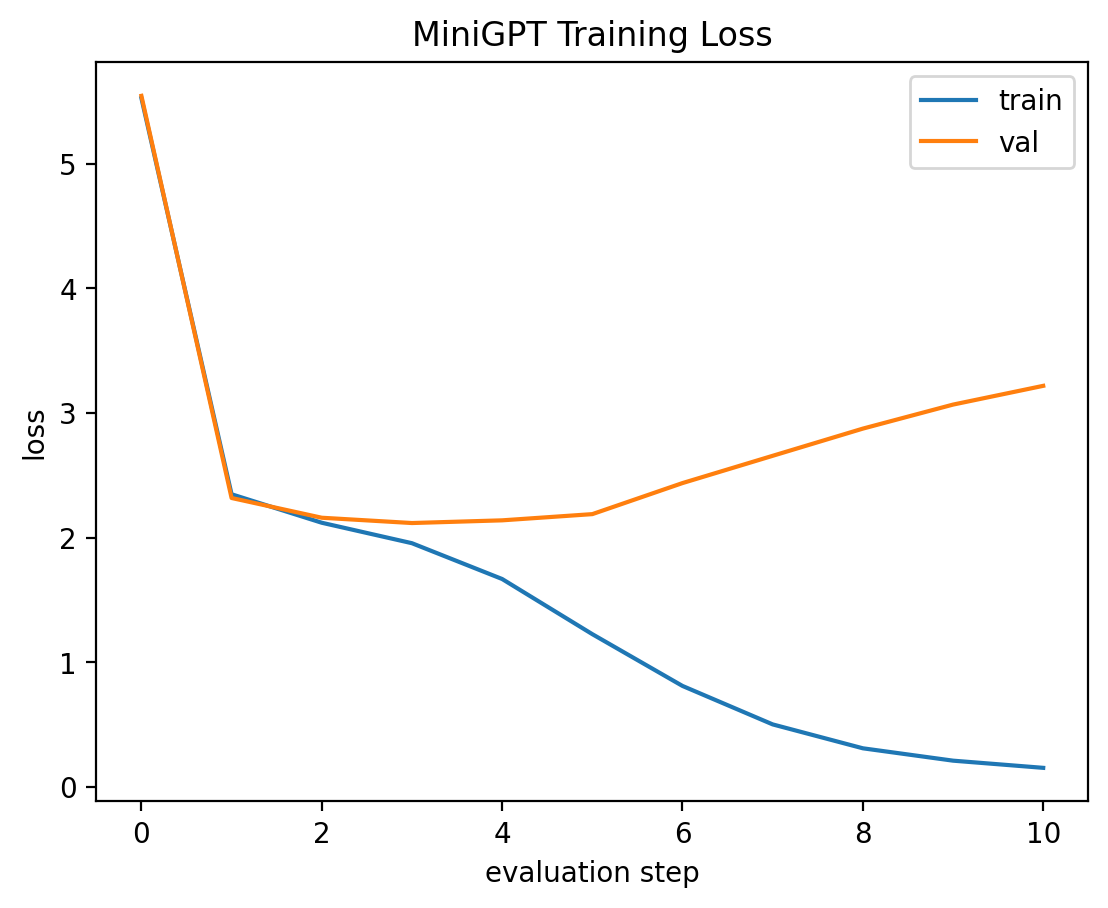
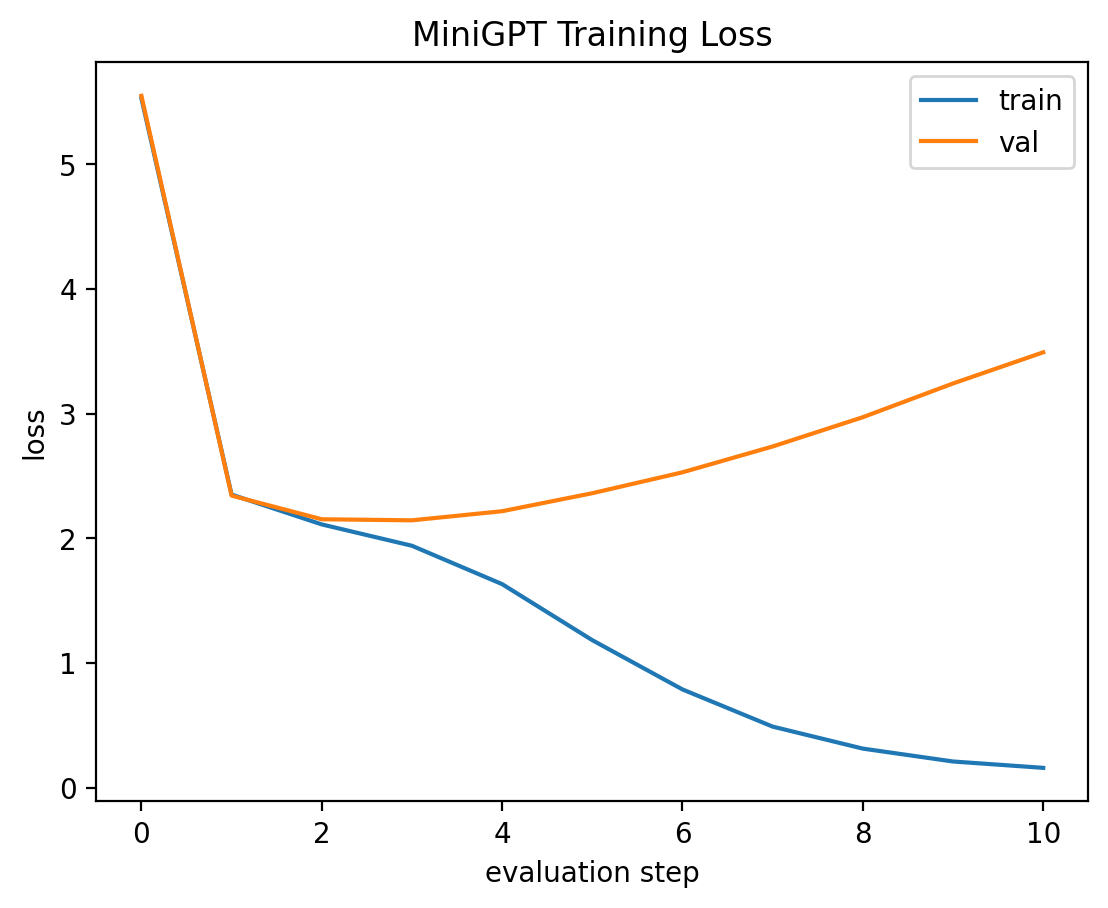
Add attention heatmap visualization and stop tracking checkpoint

diff --git a/experiments/03_attention_heatmap.py b/experiments/03_attention_heatmap.py
@@ -1,0 +1,99 @@
+import sys
+from pathlib import Path
+
+import torch
+import matplotlib.pyplot as plt
+
+PROJECT_ROOT = Path(__file__).resolve().parents[1]
+sys.path.insert(0, str(PROJECT_ROOT))
+
+from config import GPTConfig
+from minigpt.model import MiniGPT
+from minigpt.tokenizer import ByteTokenizer
+
+
+config = GPTConfig()
+tokenizer = ByteTokenizer()
+
+if torch.cuda.is_available():
+    device = "cuda"
+elif hasattr(torch.backends, "mps") and torch.backends.mps.is_available():
+    device = "mps"
+else:
+    device = "cpu"
+
+print("device:", device)
+
+checkpoint_path = PROJECT_ROOT / "results" / "minigpt_checkpoint.pt"
+
+checkpoint = torch.load(
+    checkpoint_path,
+    map_location=device,
+)
+
+model = MiniGPT(config).to(device)
+model.load_state_dict(checkpoint["model_state_dict"])
+model.eval()
+
+prompt = "hello transformer."
+input_ids = tokenizer.encode(prompt)
+
+idx = torch.tensor(
+    [input_ids],
+    dtype=torch.long,
+    device=device,
+)
+
+batch_size, seq_len = idx.shape
+
+with torch.no_grad():
+    token_emb = model.token_embedding(idx)
+
+    pos = torch.arange(seq_len, device=device)
+    pos_emb = model.position_embedding(pos)
+
+    x = token_emb + pos_emb
+
+    block = model.blocks[0]
+    x_norm = block.ln1(x)
+
+    _, attention_weights = block.attn(
+        x_norm,
+        return_attention=True,
+    )
+
+head_id = 0
+attention_matrix = attention_weights[0, head_id].detach().cpu()
+
+tokens = []
+for token_id in idx[0].detach().cpu().tolist():
+    token = tokenizer.decode([token_id])
+
+    if token == " ":
+        token = "space"
+    elif token == "\n":
+        token = "\\n"
+    elif token == "\t":
+        token = "\\t"
+
+    tokens.append(token)
+
+assets_dir = PROJECT_ROOT / "assets"
+assets_dir.mkdir(exist_ok=True)
+
+plt.figure(figsize=(8, 6))
+plt.imshow(attention_matrix)
+plt.colorbar(label="attention weight")
+plt.xticks(range(seq_len), tokens, rotation=90)
+plt.yticks(range(seq_len), tokens)
+plt.xlabel("Key positions")
+plt.ylabel("Query positions")
+plt.title("Attention Heatmap: Layer 0, Head 0")
+plt.tight_layout()
+
+output_path = assets_dir / "attention_heatmap.png"
+plt.savefig(output_path, dpi=200, bbox_inches="tight")
+
+print("prompt:", prompt)
+print("attention shape:", attention_matrix.shape)
+print("saved figure to assets/attention_heatmap.png")